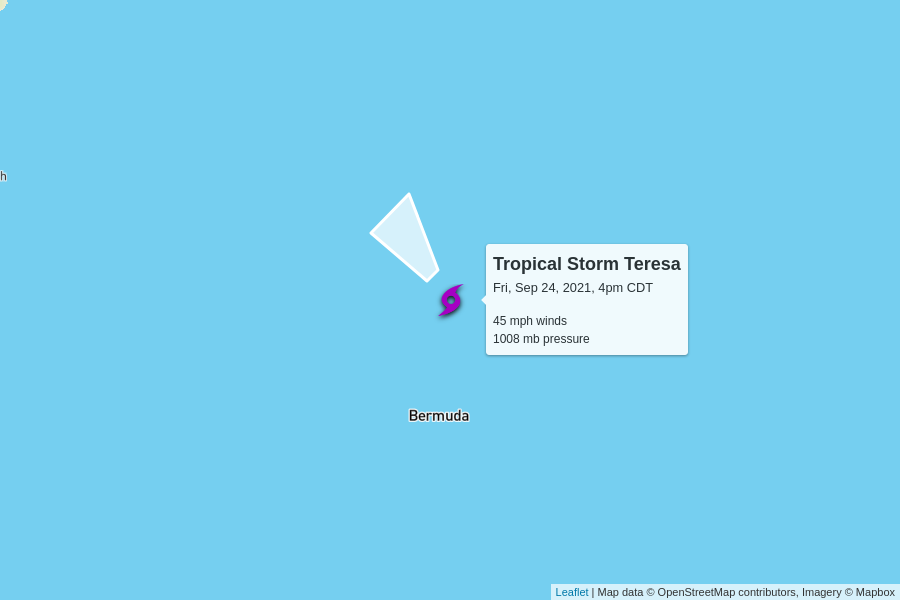
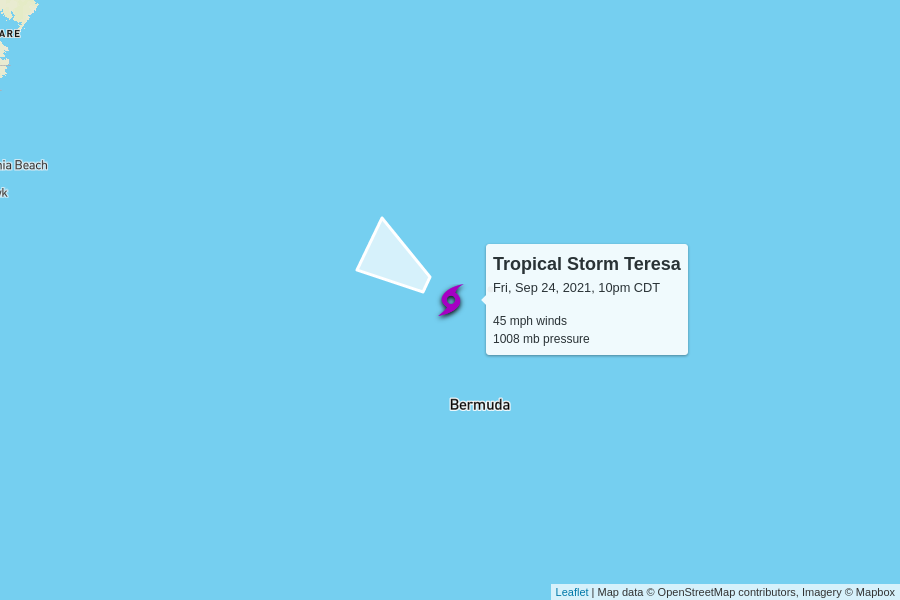
automatic update

diff --git a/docs/index.html b/docs/index.html
@@ -144,7 +144,7 @@
         <td colspan="6" class="storm category-0" >
           <h2>
             Tropical Storm Teresa
-            <p class="updated">last updated <span data-time>2021-09-24T21:00:00.000Z</span></p>
+            <p class="updated">last updated <span data-time>2021-09-25T03:00:00.000Z</span></p>
           </h2>
         </td>
       </tr>
@@ -162,9 +162,9 @@
         <td>45 mph</td>
         <td>1008 mb</td>
         <td>
-          14 mph to the northwest
+          10 mph to the west-northwest
           <br/>
-          <span style="display: inline-block; font-size: 1.5em; transform: rotate(320deg);">↑</span>
+          <span style="display: inline-block; font-size: 1.5em; transform: rotate(300deg);">↑</span>
         </td>
         <td><a href="https://raw.githubusercontent.com/mgwalker/atlantic-hurricanes/main/data/csv/AL192021.csv">AL192021.csv</a></td>
         <td><a href="https://www.nhc.noaa.gov/archive/2021/TERESA.shtml?">NHC advisories</a></td>
